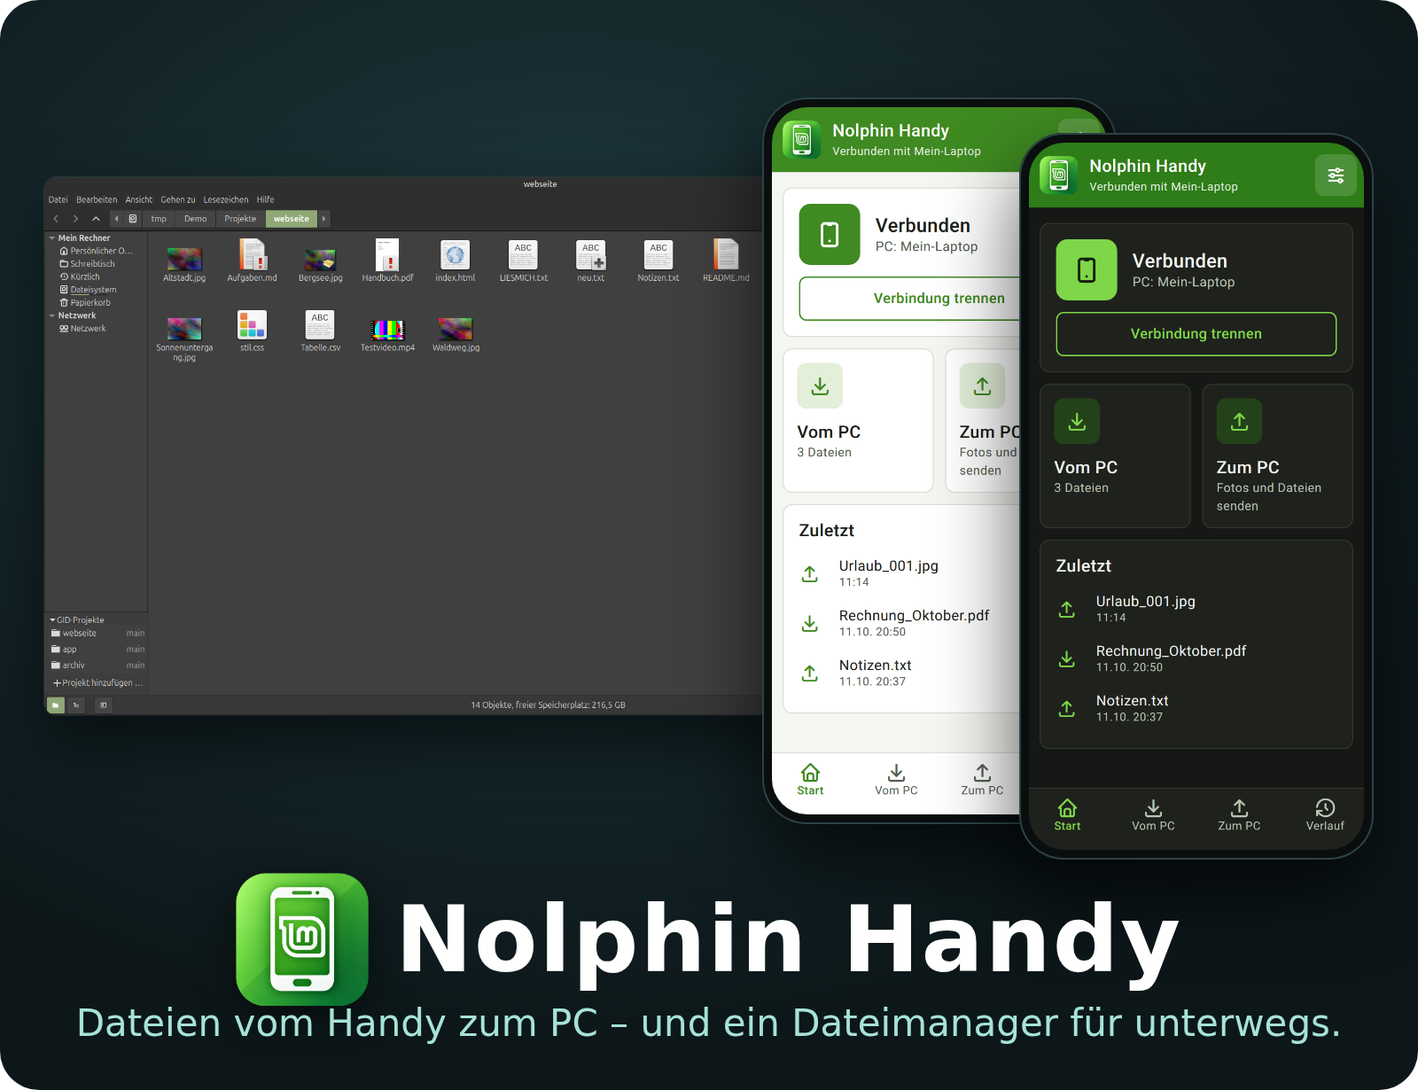
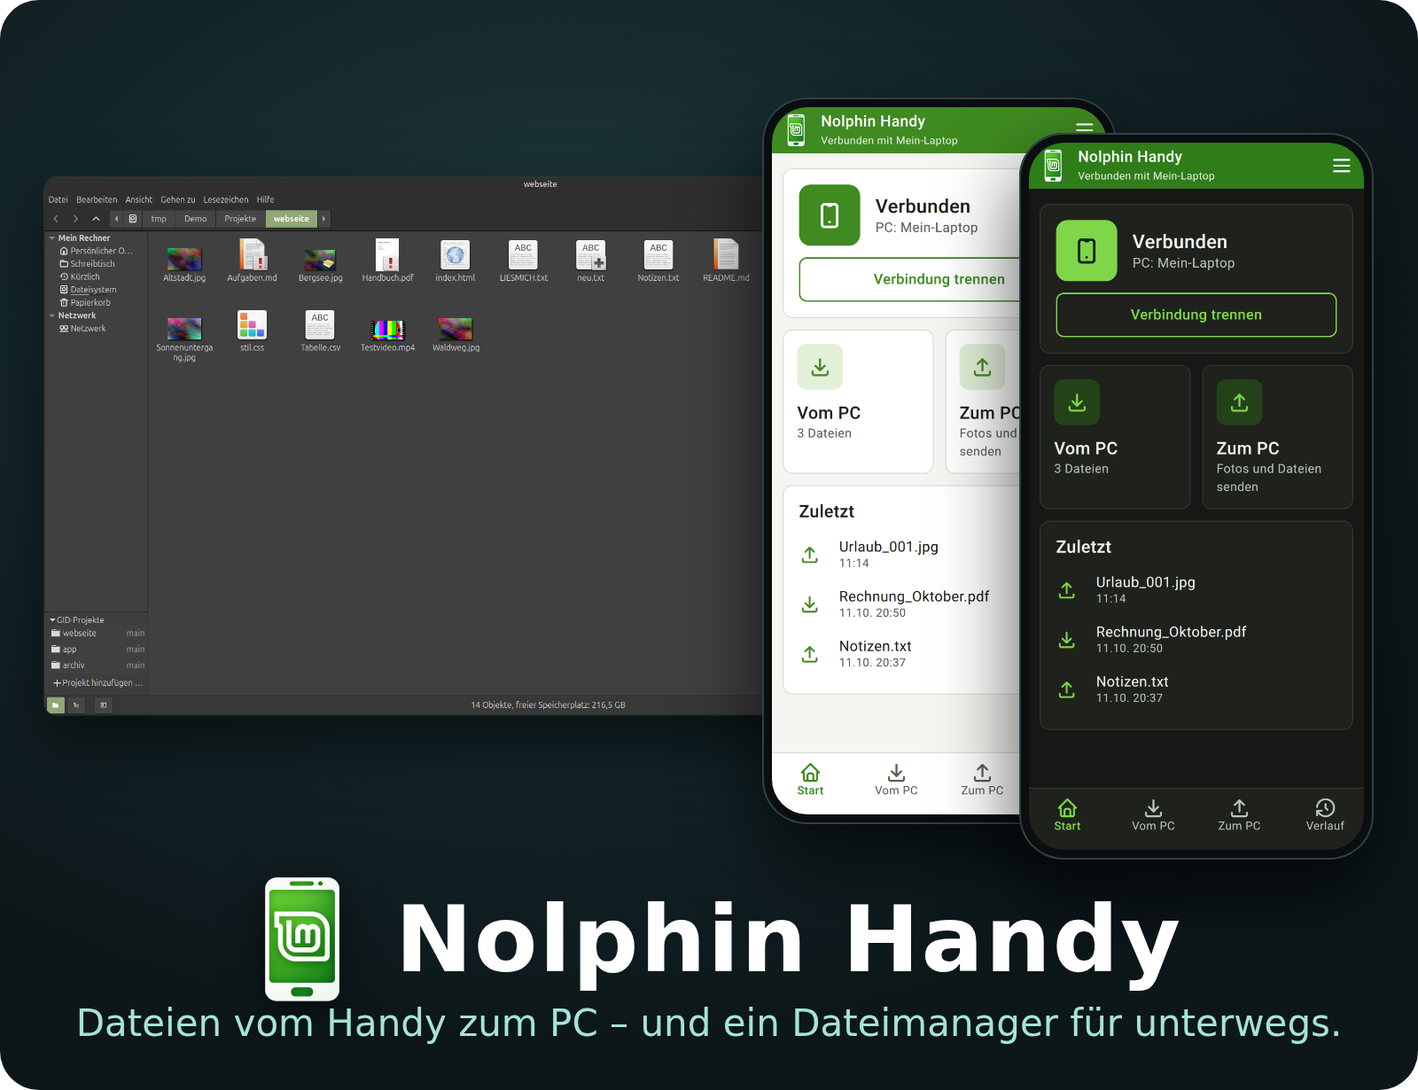
README-Bilder neu: Titelbild und GIFs zeigen die neue Oberflaeche 4.28 (schmale Leiste, Ansichtsblatt, geteilte Ansicht), aus erfundenen Beispieldaten

Changed region(s): [[0.5312, 0.0927, 0.9688, 0.6488], [0.1562, 0.8033, 0.2812, 0.9268], [0.75, 0.4943, 0.875, 0.6488]]

diff --git a/docs/bilder/quelle.html b/docs/bilder/quelle.html
@@ -11,9 +11,9 @@ html,body{margin:0;padding:0;font-family:var(--font);letter-spacing:.02em}
 body.hell{--bg:#F4F6F2;--sf:#FFFFFF;--tx:#1C211A;--dm:#566052;--ln:#D9DDD5;--pr:#3F8A21;--bar:#3F8A21;--sb:#2F6E18;--fo:#6AA84F;--ic:#4D5649;--ch:#E3EFD9}
 body.dunkel{--bg:#161815;--sf:#1F211D;--tx:#F2F5EE;--dm:#B9C4B2;--ln:#33382F;--pr:#7ED648;--bar:#2E7D18;--sb:#245F12;--fo:#86C854;--ic:#D0DAC8;--ch:#24421A}
 body{background:var(--bg);color:var(--tx);width:360px;height:740px;overflow:hidden;display:flex;flex-direction:column}
-.app{background:var(--bar);color:#fff;height:68px;display:flex;align-items:center;gap:12px;padding:0 12px 0 16px;flex:none}
-.app img{width:40px;height:40px}.app b{font-size:18px;font-weight:500;display:block}.app small{font-size:12px;opacity:.88}
-.app .set{margin-left:auto;width:44px;height:44px;border-radius:10px;background:rgba(255,255,255,.15);display:flex;align-items:center;justify-content:center;font-size:22px}
+.app{background:var(--bar);color:#fff;height:48px;display:flex;align-items:center;gap:10px;padding:0 6px 0 14px;flex:none}
+.app img{width:32px;height:36px}.app b{font-size:16px;font-weight:500;display:block;line-height:1.15}.app small{font-size:11px;opacity:.88;line-height:1.1}
+.app .set{margin-left:auto;width:44px;height:44px;display:flex;align-items:center;justify-content:center;font-size:24px}
 .top{background:var(--sf);border-bottom:1px solid var(--ln);height:52px;display:flex;align-items:center;gap:2px;padding:0 4px 0 8px;font-size:18px;font-weight:500;flex:none}
 .top span{flex:1;padding-left:4px}.top i{font-size:24px;padding:10px;color:var(--ic)}
 .sel{background:var(--sb);color:#fff;height:52px;display:flex;align-items:center;gap:2px;padding:0 4px 0 8px;font-size:16px;font-weight:500;flex:none}
@@ -66,7 +66,7 @@ body.dunkel .badge{color:#10200A}
 .leg{display:grid;grid-template-columns:1fr 1fr;gap:6px 14px;font-size:13px}.leg div{display:flex;align-items:center;gap:8px;white-space:nowrap}.leg em{width:10px;height:10px;border-radius:2px;flex:none}.leg b{margin-left:auto;font-weight:500}
 .big{font-size:22px;font-weight:500}
 .rb{height:4px;border-radius:2px;background:var(--ln);margin-top:5px}.rb i{display:block;height:4px;border-radius:2px;background:var(--pr)}
-.dlgwrap{position:absolute;left:0;right:0;top:68px;bottom:0;background:rgba(0,0,0,.45);display:flex}
+.dlgwrap{position:absolute;left:0;right:0;top:48px;bottom:0;background:rgba(0,0,0,.45);display:flex}
 .dlg{margin:auto 20px;background:var(--sf);border-radius:16px;padding:22px 22px 14px;box-shadow:0 8px 30px rgba(0,0,0,.35);width:100%}
 .dlg h3{margin:0 0 10px;font-size:20px;font-weight:500}.dlg p{margin:0;font-size:15px;line-height:1.45;color:var(--dm)}
 .dlg .acts{display:flex;justify-content:flex-end;gap:8px;margin-top:18px}
@@ -80,6 +80,18 @@ body.dunkel .badge{color:#10200A}
 .pane{flex:1;display:flex;flex-direction:column;min-height:0;overflow:hidden;border-bottom:3px solid var(--ln)}
 .pane .ph{display:flex;align-items:center;gap:8px;height:38px;padding:0 16px;font-size:13px;color:var(--dm);background:var(--bg);border-bottom:1px solid var(--ln);flex:none}.pane .ph b{color:var(--pr);font-weight:500}
 .pane .r{height:54px}
+
+.sheet{position:absolute;left:0;right:0;bottom:0;background:var(--sf);border-radius:16px 16px 0 0;padding:6px 0 14px;box-shadow:0 -6px 24px rgba(0,0,0,.35)}
+.sheet .sh2{font-size:14px;font-weight:500;color:var(--pr);padding:14px 20px 4px}
+.sheet .ch{display:flex}.sheet .ch>div{flex:1;display:flex;align-items:center;gap:6px;height:52px;padding-left:16px}.sheet .ch i{font-size:26px}
+.sheet .sr{padding:12px 20px;font-size:17px}
+.sheet .cr{display:flex;align-items:center;padding:12px 14px 12px 20px;font-size:16px}.sheet .cr span{flex:1}
+.sheet .bx{width:20px;height:20px;border:2px solid var(--dm);border-radius:3px;display:flex;align-items:center;justify-content:center;font-size:14px;color:#fff}.sheet .bx.on{background:var(--pr);border-color:var(--pr)}
+body.dunkel .sheet .bx.on{color:#10200A}
+.sheet .rs{padding:12px 20px 4px;font-size:14px;font-weight:500;color:var(--pr)}
+.pm{display:flex;align-items:center;gap:6px;height:44px;padding:0 6px 0 8px;font-size:14px;color:var(--dm);background:var(--bg);border-bottom:1px solid var(--ln);flex:none}
+.pm .tag{padding:2px 8px;border-radius:10px;border:1px solid var(--ln);font-size:12px;font-weight:500;background:var(--sf)}.pm .tag.on{background:var(--pr);border-color:var(--pr);color:#fff}body.dunkel .pm .tag.on{color:#10200A}
+.pm i{font-size:22px;color:var(--pr);padding:6px}.pm b{color:var(--pr);font-weight:500}.pm .mn{margin-left:auto;color:var(--ic);font-size:24px}
 </style></head>
 <body><div id="root" style="display:contents"></div>
 <script>
@@ -87,7 +99,7 @@ const h=(location.hash||'#start-hell').slice(1).split('-');const page=h[0],theme
 document.body.className=theme;
 const ic=n=>`<i class="ti ti-${n}"></i>`;
 const nav=a=>`<div class="nav">${[['home','Start'],['download','Vom PC'],['upload','Zum PC'],['history','Verlauf']].map((x,i)=>`<div class="${i==a?'on':''}">${ic(x[0])}${x[1]}</div>`).join('')}</div>`;
-const app=`<div class="app"><img src="../../res/mipmap-xxxhdpi/ic_launcher.png" alt=""><div><b>Nolphin Handy</b><small>Verbunden mit Mein-Laptop</small></div><div class="set">${ic('adjustments-horizontal')}</div></div>`;
+const app=`<div class="app"><img src="../../res/mipmap-xxxhdpi/ic_launcher.png" alt=""><div><b>Nolphin Handy</b><small>Verbunden mit Mein-Laptop</small></div><div class="set">${ic('menu-2')}</div></div>`;
 const row=(i,t,s,o={})=>`<div class="r ${o.on?'on':''}">${o.cb!==undefined?`<div class="cb ${o.cb?'on':''}">${o.cb?'✓':''}</div>`:''}<div class="ico ${o.fo?'fo':''} ${o.th?'th':''}">${o.th?`<div style="width:36px;height:36px;background:linear-gradient(135deg,${o.th})"></div>`:ic(i)}</div><div class="x"><div class="t">${t}</div><div class="s">${s}</div></div>${o.more===false?'':`<div class="mo">${ic('dots-vertical')}</div>`}</div>`;
 const F=(t,s,o={})=>row('folder-filled',t,s,{fo:1,...o});
 let html='';
@@ -99,37 +111,37 @@ if(page==='start'){html=app+`<div class="body"><div class="pad">
 <div class="r">${ic('download')}<div class="x"><div class="t">Rechnung_Oktober.pdf</div><div class="s">11.10. 20:50</div></div></div>
 <div class="r">${ic('upload')}<div class="x"><div class="t">Notizen.txt</div><div class="s">11.10. 20:37</div></div></div></div>
 </div></div>`+nav(0);}
-if(page==='uebersicht'){html=app+`<div class="top"><span>Zum PC</span></div><div class="search">${ic('search')}Auf dem Handy suchen${ic('x')}</div><div class="body"><div class="pad" style="padding-top:8px">
+if(page==='uebersicht'){html=app+`<div class="body"><div class="pad" style="padding-top:8px">
 <div class="sec">SPEICHER</div><div class="grp"><div class="vol"><div class="vt">${ic('device-mobile')}<div><div style="font-size:16px;font-weight:500">Hauptspeicher</div><div class="s">74 GB von 128 GB belegt</div></div><div class="pc">58 %</div></div><div class="bar"><i style="width:58%"></i></div></div>
 <div class="vol" style="border-top:1px solid var(--ln)"><div class="vt">${ic('database')}<div><div style="font-size:16px;font-weight:500">SD-Karte</div><div class="s">7 GB von 60 GB belegt</div></div><div class="pc">12 %</div></div><div class="bar"><i style="width:12%"></i></div></div></div>
 <div class="sec">SCHNELLZUGRIFF</div><div class="grp">${row('download','Downloads','12 Elemente',{more:false})}${row('apps','Apps','1 App',{more:false})}${row('photo','Google Fotos','Fotos und Videos aus der Cloud',{more:false})}${row('cloud','Cloud und andere Apps','Google Drive und Dateien anderer Apps',{more:false})}</div>
 <div class="sec">KATEGORIEN</div><div class="grp">${row('photo','Bilder','120 MB · 83 Dateien',{more:false})}${row('music','Audio','12 GB · 2437 Dateien',{more:false})}${row('file-text','Dokumente','31 MB · 17 Dateien',{more:false})}</div>
 </div></div>`+nav(2);}
-if(page==='liste'){html=app+`<div class="top">${ic('arrow-left')}<span>Dokumente</span>${ic('folder-plus')}${ic('layout-grid')}</div><div class="search">${ic('search')}Auf dem Handy suchen${ic('x')}</div><div class="path">${ic('home')}<span>›</span><em>Speicher</em><em>›</em><b>Dokumente</b></div><div class="body">
+if(page==='liste'){html=app+`<div class="path">${ic('home')}<span>›</span><em>Speicher</em><em>›</em><b>Dokumente</b></div><div class="body">
 ${F('Steuer 2025','14 Elemente')}${F('Versicherungen','6 Elemente')}${row('file-type-pdf','Rechnung_Oktober.pdf','214 KB · 12.10.2026')}${row('file-text','Brief Finanzamt.docx','48 KB · 10.10.2026')}${row('table','Haushalt 2026.xlsx','96 KB · 03.10.2026')}${row('photo','Urlaub_001.jpg','3,2 MB · 01.10.2026',{th:'#8DB6D9,#3E6B8E'})}${row('file-zip','Sicherung.zip','128 MB · 28.09.2026')}${row('box','Zahnrad.step','201 KB · 11.10.2026')}</div>`+nav(2);}
 if(page==='auswahl'){html=app+`<div class="sel">${ic('x')}<span>3 gewählt</span>${ic('upload')}${ic('copy')}${ic('arrows-move')}${ic('trash')}${ic('dots-vertical')}</div><div class="search">${ic('search')}Auf dem Handy suchen${ic('x')}</div><div class="body">
 ${row('folder-filled','Steuer 2025','14 Elemente',{fo:1,cb:1,on:1,more:false})}${row('folder-filled','Versicherungen','6 Elemente',{fo:1,cb:0,more:false})}${row('file-type-pdf','Rechnung_Oktober.pdf','214 KB · 12.10.2026',{cb:1,on:1,more:false})}${row('file-text','Brief Finanzamt.docx','48 KB · 10.10.2026',{cb:0,more:false})}${row('table','Haushalt 2026.xlsx','96 KB · 03.10.2026',{cb:1,on:1,more:false})}${row('photo','Urlaub_001.jpg','3,2 MB · 01.10.2026',{cb:0,more:false,th:'#8DB6D9,#3E6B8E'})}${row('file-zip','Sicherung.zip','128 MB · 28.09.2026',{cb:0,more:false})}</div>`+nav(2);}
-if(page==='dokumente'){html=app+`<div class="top">${ic('arrow-left')}<span>Dokumente</span>${ic('layout-grid')}</div><div class="search">${ic('search')}Auf dem Handy suchen${ic('x')}</div><div class="path">${ic('home')}<span>›</span><b>Dokumente</b></div><div class="tabs"><div>Alle</div><div>DOC</div><div>XLS</div><div class="on">PDF</div><div>PPT</div><div>Sonstige</div></div><div class="stor"><div class="on">Beides</div><div>Intern</div><div>SD-Karte</div></div><div class="body">
+if(page==='dokumente'){html=app+`<div class="path">${ic('home')}<span>›</span><b>Dokumente</b></div><div class="tabs"><div>Alle</div><div>DOC</div><div>XLS</div><div class="on">PDF</div><div>PPT</div><div>Sonstige</div></div><div class="stor"><div class="on">Beides</div><div>Intern</div><div>SD-Karte</div></div><div class="body">
 ${row('file-type-pdf','Rechnung_Oktober.pdf','Download · 214 KB · 12.10.2026')}${row('file-type-pdf','Vertrag Wohnung.pdf','Documents · 1,2 MB · 02.10.2026')}${row('file-type-pdf','Bedienungsanleitung.pdf','SD-Karte · Download · 3,4 MB · 28.09.2026')}${row('file-type-pdf','Fahrplan.pdf','Download · 180 KB · 20.09.2026')}</div>`+nav(2);}
 if(page==='vompc'){html=app+`<div class="top"><span>Vom PC</span>${ic('layout-grid')}</div><div class="search" style="padding-left:16px">${ic('search')}Auf dem PC suchen${ic('x')}</div><div class="path">${ic('home')}<span>›</span><b>Handy</b></div><div class="actions"><div class="bt">Auswählen</div><div class="bt f">Alle laden</div></div><div class="body">
 ${row('file-type-pdf','Angebot Maler.pdf','214 KB  ·  auf dem Handy',{more:false})}${row('table','Haushalt 2026.xlsx','96 KB  ·  noch nicht geladen',{more:false})}${row('photo','Plan.png','1,1 MB  ·  noch nicht geladen',{more:false,th:'#D9B98D,#8E6A3E'})}${row('folder-filled','Urlaub','Ordner',{fo:1,more:false})}</div>`+nav(1);}
-if(page==='einfuegen'){html=app+`<div class="top">${ic('arrow-left')}<span>Ziel</span>${ic('folder-plus')}${ic('layout-grid')}</div><div class="search">${ic('search')}Auf dem Handy suchen${ic('x')}</div><div class="path">${ic('home')}<span>›</span><em>Speicher</em><em>›</em><em>Download</em><em>›</em><b>Ziel</b></div><div class="body">
+if(page==='einfuegen'){html=app+`<div class="path">${ic('home')}<span>›</span><em>Speicher</em><em>›</em><em>Download</em><em>›</em><b>Ziel</b></div><div class="body">
 ${row('file-text','Notizen.txt','8 B · 12.10.2026')}${row('file-type-pdf','Plan.pdf','412 KB · 11.10.2026')}</div><div class="paste"><span>2 Elemente verschieben</span><div class="bt">Abbrechen</div><div class="bt f">Hierher</div></div>`+nav(2);}
 if(page==='vompcauswahl'){html=app+`<div class="sel">${ic('x')}<span>2 gewählt</span>${ic('checks')}${ic('download')}${ic('share')}${ic('device-floppy')}</div><div class="search" style="padding-left:16px">${ic('search')}Auf dem PC suchen${ic('x')}</div><div class="body">
 ${row('file-type-pdf','Angebot Maler.pdf','214 KB  ·  auf dem Handy',{cb:1,on:1,more:false})}${row('table','Haushalt 2026.xlsx','96 KB  ·  noch nicht geladen',{cb:1,on:1,more:false})}${row('photo','Plan.png','1,1 MB  ·  noch nicht geladen',{cb:0,more:false,th:'#D9B98D,#8E6A3E'})}</div>`+nav(1);}
 
 const dlg=(t,p,b1,b2)=>`<div class="dlgwrap"><div class="dlg"><h3>${t}</h3>${p}<div class="acts"><div class="bt">${b1}</div><div class="bt f">${b2}</div></div></div></div>`;
-if(page==='entpacken'){html=app+`<div class="top">${ic('arrow-left')}<span>Download</span>${ic('folder-plus')}${ic('layout-grid')}</div><div class="body">${row('file-zip','Urlaub.zip','1,2 MB · 12.10.2026')}${row('file-text','Notizen.txt','8 KB · 10.10.2026')}</div>`+dlg('„Urlaub.zip“ entpacken?','<p>Das Archiv enthält 48 Dateien in 6 Ordnern (1,2 MB, entpackt 2,9 MB).<br><br>Ziel: Ordner „Urlaub“ in Download</p>','Abbrechen','Entpacken');}
-if(page==='umbenennen'){html=app+`<div class="top">${ic('arrow-left')}<span>Download</span></div><div class="body"></div>`+`<div class="dlgwrap"><div class="dlg"><h3>3 Dateien umbenennen</h3><div class="rtabs"><div>Ersetzen</div><div class="on">Nummer</div><div>Anhängen</div><div>Groß/Klein</div></div><div class="fld" style="color:var(--dm)">Name davor, zum Beispiel „Urlaub - “</div><div class="flb">Erste Nummer</div><div class="fld">1</div><div class="flb">Anzahl Stellen (001 = 3)</div><div class="fld">3</div><div class="prev">IMG_4711.jpg<i>→</i>001.jpg<br>IMG_4712.jpg<i>→</i>002.jpg<br>IMG_4713.jpg<i>→</i>003.jpg</div><div class="acts"><div class="bt">Abbrechen</div><div class="bt f">Umbenennen</div></div></div></div>`;}
-if(page==='loeschen'){html=app+`<div class="top">${ic('arrow-left')}<span>Dokumente</span>${ic('folder-plus')}${ic('layout-grid')}</div><div class="body">${row('file-type-pdf','Rechnung_Oktober.pdf','214 KB · 12.10.2026')}${row('file-text','Brief Finanzamt.docx','48 KB · 10.10.2026')}</div>`+dlg('In den Papierkorb?','<p>„Rechnung_Oktober.pdf“ wird in den Papierkorb verschoben. Dort bleibt es 30 Tage und lässt sich wiederherstellen.</p>','Abbrechen','In den Papierkorb');}
+if(page==='entpacken'){html=app+`<div class="body">${row('file-zip','Urlaub.zip','1,2 MB · 12.10.2026')}${row('file-text','Notizen.txt','8 KB · 10.10.2026')}</div>`+dlg('„Urlaub.zip“ entpacken?','<p>Das Archiv enthält 48 Dateien in 6 Ordnern (1,2 MB, entpackt 2,9 MB).<br><br>Ziel: Ordner „Urlaub“ in Download</p>','Abbrechen','Entpacken');}
+if(page==='umbenennen'){html=app+`<div class="body"></div>`+`<div class="dlgwrap"><div class="dlg"><h3>3 Dateien umbenennen</h3><div class="rtabs"><div>Ersetzen</div><div class="on">Nummer</div><div>Anhängen</div><div>Groß/Klein</div></div><div class="fld" style="color:var(--dm)">Name davor, zum Beispiel „Urlaub - “</div><div class="flb">Erste Nummer</div><div class="fld">1</div><div class="flb">Anzahl Stellen (001 = 3)</div><div class="fld">3</div><div class="prev">IMG_4711.jpg<i>→</i>001.jpg<br>IMG_4712.jpg<i>→</i>002.jpg<br>IMG_4713.jpg<i>→</i>003.jpg</div><div class="acts"><div class="bt">Abbrechen</div><div class="bt f">Umbenennen</div></div></div></div>`;}
+if(page==='loeschen'){html=app+`<div class="body">${row('file-type-pdf','Rechnung_Oktober.pdf','214 KB · 12.10.2026')}${row('file-text','Brief Finanzamt.docx','48 KB · 10.10.2026')}</div>`+dlg('In den Papierkorb?','<p>„Rechnung_Oktober.pdf“ wird in den Papierkorb verschoben. Dort bleibt es 30 Tage und lässt sich wiederherstellen.</p>','Abbrechen','In den Papierkorb');}
 if(page==='analyse'){const cols=['#3F8A21','#E0A020','#3B82C4','#9B59B6','#D9534F','#8A9486'],cat=[['Bilder',22,'16 GB'],['Videos',18,'13 GB'],['Audio',9,'7 GB'],['Dokumente',2,'1,4 GB'],['Apps',31,'23 GB'],['Sonstiges',18,'13 GB']];
 const rr=(i,t,sub,p,o={})=>`<div class="r" style="height:66px"><div class="ico ${o.fo?'fo':''}">${ic(i)}</div><div class="x"><div class="t">${t}</div><div class="s">${sub}</div><div class="rb"><i style="width:${p}%"></i></div></div>${ic('chevron-right')}</div>`;
 html=app+`<div class="top">${ic('arrow-left')}<span>Hauptspeicher</span>${ic('refresh')}</div><div class="body"><div class="pad" style="gap:10px"><div class="card"><div class="big">74 GB <span style="font-size:14px;font-weight:400;color:var(--dm)">von 128 GB belegt</span></div><div class="seg">${cat.map((c,i)=>`<i style="width:${c[1]}%;background:${cols[i]}"></i>`).join('')}</div><div class="leg">${cat.map((c,i)=>`<div><em style="background:${cols[i]}"></em>${c[0]}<b>${c[2]}</b></div>`).join('')}</div><p style="font-size:12px;margin-top:10px">Stand: 18:12</p><div class="btn">Dateien ansehen</div></div><div class="sec">GRÖSSTE ORDNER</div><div class="grp">${rr('folder-filled','Android','23 GB',100,{fo:1})}${rr('folder-filled','DCIM','16 GB',70,{fo:1})}${rr('folder-filled','Movies','13 GB',56,{fo:1})}</div></div></div>`+nav(2);}
 if(page==='papierkorb'){const cr=(i,t,s,on,fo)=>`<div class="r ${on?'on':''}"><div class="cb ${on?'on':''}">${on?'✓':''}</div><div class="ico ${fo?'fo':''}">${ic(i)}</div><div class="x"><div class="t">${t}</div><div class="s">${s}</div></div></div>`;
 html=app+`<div class="top">${ic('arrow-left')}<span>Papierkorb</span>${ic('dots-vertical')}</div><div class="body"><div class="pad" style="gap:10px;padding:12px 16px"><div class="note"><b>12 Elemente · 340 MB.</b> Gelöschtes bleibt 30 Tage hier und belegt weiter Platz. Das gilt nur für Löschen in dieser App.</div><div class="grp">${cr('file-type-pdf','Rechnung_Oktober.pdf','Documents · 214 KB · vor 2 Tagen',1)}${cr('photo','Urlaub_007.jpg','Kamera · 3,1 MB · vor 5 Tagen',1)}${cr('folder-filled','Alte Fotos','Pictures · 41 Dateien · vor 9 Tagen',0,1)}${cr('file-text','Notizen.txt','Download · 8 KB · vor 21 Tagen',0)}</div></div></div><div class="paste"><span>2 gewählt</span><div class="bt">Löschen</div><div class="bt f">Zurück</div></div>`+nav(2);}
 
-if(page==='sortieren'){const o=(on,t)=>`<div class="opt"><div class="rd ${on?'on':''}"></div>${t}</div>`;
-html=app+`<div class="top">${ic('arrow-left')}<span>Dokumente</span>${ic('folder-plus')}${ic('layout-grid')}</div><div class="body">${F('Steuer 2025','14 Elemente',{more:false})}${row('file-type-pdf','Rechnung_Oktober.pdf','214 KB · 12.10.2026')}</div>`+`<div class="dlgwrap"><div class="dlg"><h3>Sortieren</h3><div class="sh">SORTIEREN NACH</div>${o(1,'Name')}${o(0,'Größe')}${o(0,'Änderungsdatum')}${o(0,'Dateityp')}<div class="sh">REIHENFOLGE</div>${o(1,'Aufsteigend (A bis Z)')}${o(0,'Absteigend (Z bis A)')}<div class="opt" style="margin-top:6px"><div class="cb on">✓</div>Ordner zuerst</div><div class="acts" style="justify-content:space-between"><div class="bt" style="border:0;min-width:0">Standard</div><div class="bt f">Fertig</div></div></div></div>`;}
-if(page==='zweifenster'){html=app+`<div class="body" style="display:flex;flex-direction:column;background:var(--sf)"><div class="pane"><div class="ph">${ic('folder')}<b>Quelle</b> · Hauptspeicher › Download</div>${row('photo','Urlaub_001.jpg','3,1 MB',{cb:1,on:1,more:false})}${row('photo','Urlaub_002.jpg','2,8 MB',{cb:1,on:1,more:false})}${row('file-type-pdf','Rechnung.pdf','214 KB',{cb:0,more:false})}</div><div class="pane"><div class="ph">${ic('folder')}<b>Ziel</b> · SD-Karte › Fotos</div>${F('2025','48 Elemente',{more:false})}${F('2026','12 Elemente',{more:false})}${row('photo','Titel.jpg','1,2 MB',{more:false})}</div></div>`+nav(2);}
+if(page==='sortieren'){const rd=(on)=>`<div class="rd ${on?'on':''}"></div>`;
+html=app+`<div class="path">${ic('home')}<span>›</span><em>Speicher</em><span style="margin-left:8px">›</span><b>Dokumente</b></div><div class="body">${F('Steuer 2025','14 Elemente')}${row('file-type-pdf','Rechnung_Oktober.pdf','214 KB · 12.10.2026')}${row('file-text','Brief Finanzamt.docx','48 KB · 10.10.2026')}</div>`+`<div class="dlgwrap" style="align-items:flex-end"><div class="sheet" style="position:static;width:100%"><div class="sh2">Ansicht</div><div class="ch"><div>${rd(0)}${ic('menu-2')}</div><div>${rd(1)}${ic('layout-grid')}</div><div>${rd(0)}${ic('list-details')}</div></div><div class="ch"><div>${rd(1)}${ic('photo')}</div><div>${rd(0)}${ic('photo-filled')}</div><div></div></div><div class="sh2">Sortieren</div><div class="sr">Datum ▼</div><div class="sh2">Sonstiges</div><div class="cr"><span>Ordner zuerst</span><div class="bx on">✓</div></div><div class="cr"><span>Dateinamen ausblenden (nur Raster)</span><div class="bx"></div></div><div class="cr"><span>Ausgeblendete Dateien anzeigen</span><div class="bx"></div></div><div class="rs">Auf Standard zurücksetzen</div></div></div>`;}
+if(page==='zweifenster'){html=app+`<div class="body" style="display:flex;flex-direction:column;background:var(--sf)"><div class="pane"><div class="pm"><span class="tag on">Fenster 1</span>${ic('home')}<span>›</span><span>Hauptspeicher</span><span>›</span><b>Download</b>${ic('menu-2').replace('<i ','<i style="margin-left:auto" ')}</div>${row('photo','Urlaub_001.jpg','3,1 MB',{cb:1,on:1,more:false})}${row('photo','Urlaub_002.jpg','2,8 MB',{cb:1,on:1,more:false})}${row('file-type-pdf','Rechnung.pdf','214 KB',{cb:0,more:false})}</div><div class="pane"><div class="pm"><span class="tag">Fenster 2</span>${ic('home')}<span>›</span><span>SD-Karte</span><span>›</span><b>Fotos</b>${ic('menu-2').replace('<i ','<i style="margin-left:auto" ')}</div>${F('2025','48 Elemente',{more:false})}${F('2026','12 Elemente',{more:false})}${row('photo','Titel.jpg','1,2 MB',{more:false})}</div></div>`+nav(2);}
 document.getElementById('root').outerHTML=html;
 </script></body></html>

diff --git a/docs/bilder/gif.py b/docs/bilder/gif.py
@@ -7,11 +7,11 @@ FOLGE = [
     ("start", "Start", "Verbunden mit dem PC, zuletzt gesendet"),
     ("uebersicht", "Übersicht", "Speicher, Schnellzugriff, Kategorien, Suche"),
     ("liste", "Ordner und Dateien", "Vorschaubilder, Symbole, Ordner zuerst"),
-    ("sortieren", "Sortieren", "Name, Größe, Datum, Typ, Richtung"),
+    ("sortieren", "Ansicht und Sortierung", "Liste, Raster, Kompakt, Vorschau, Sortierung"),
     ("dokumente", "Dokumente", "Reiter und Schalter Intern / SD-Karte"),
     ("auswahl", "Mehrfachauswahl", "Senden, Kopieren, Verschieben, Löschen"),
     ("einfuegen", "Kopieren und Verschieben", "Zielordner öffnen, dann „Hierher“"),
-    ("zweifenster", "Zwei Fenster", "Quelle und Ziel (optional in den Einstellungen)"),
+    ("zweifenster", "Zwei Fenster", "Eine Zeile je Fenster, eigene Ansicht"),
     ("entpacken", "ZIP entpacken", "Vorschau, Platzprüfung, Schutz vor unsicheren Pfaden"),
     ("umbenennen", "Mehrere umbenennen", "Vier Arten, Vorschau alt → neu"),
     ("loeschen", "Löschen", "Erst in den Papierkorb, mit Nachfrage"),

diff --git a/docs/umbau-4.28.md b/docs/umbau-4.28.md
@@ -47,7 +47,7 @@ Alle Wahlen liegen in den App-Einstellungen (`Conn`): `viewmode`, `largepreview`
 
 ## Nicht geprüft / Grenzen
 
-* **Die Bilder und GIFs der README zeigen noch die Oberfläche der Version 4.27** (alte Leiste, alte Kacheln). Sie wurden nicht neu erzeugt.
+* **Die Bilder und GIFs der README sind aus erfundenen Beispieldaten gezeichnet** (`docs/bilder/quelle.html`), nicht von echten Bildschirmfotos. Sie zeigen die neue Leiste, das Ansichtsblatt und die geteilte Ansicht, wurden aber nicht mit Aufnahmen vom Handy verglichen; Einzelheiten (Abstände, Schrift) können vom echten Aussehen abweichen.
 * **Eigene Ansicht je Fenster** (Zwei-Fenster-Modus) ist programmiert, aber am Handy nicht ausprobiert.
 * **Nicht am Handy gesehen:** helles Design, große Systemschrift, andere Bildschirmgrößen, große Vorschau, „Dateinamen ausblenden“, „Ausgeblendete Dateien anzeigen“, Fotos im Raster (angesehen wurden Albumbilder), Neuer Ordner, „Bearbeiten mit …“, Neustart-Test der Einstellungen.
 * Das Speichern der Einstellungen (SharedPreferences) und der Datei-Anbieter sind nicht in den PC-Tests (benötigen Android); getestet sind die Regeln dahinter.
